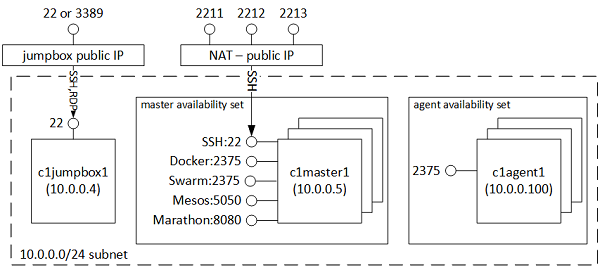
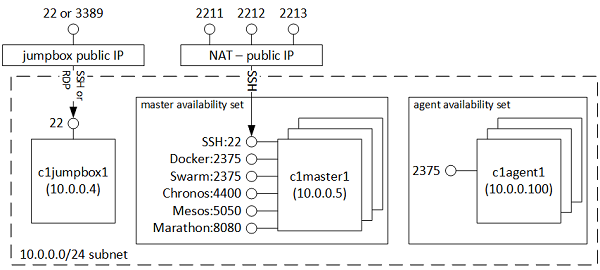
Added Chronos walkthrough to README.md

Changed region(s): [[0.24, 0.563, 0.63, 0.8593], [0.09, 0.2667, 0.15, 0.4148], [0.63, 0.7407, 0.66, 0.7704]]

diff --git a/README.md b/README.md
@@ -12,13 +12,13 @@ Once your cluster has been created you will have a resource group containing 3 p
 
 2. a set of agents behind in an agent specific availability set.  The agent VMs must be accessed through the master, or jumpbox
 
-3. if chosen, a jumpbox
+3. if chosen, a windows or linux jumpbox
 
 The following image is an example of a cluster with 1 jumpbox, 3 masters, and 3 agents:
 
 ![Image of mesos cluster on azure](https://raw.githubusercontent.com/anhowe/mesos-scalable-cluster/master/images/mesos.png)
 
-You can see Mesos on port 5050, Marathon on port 8080, and Swarm on port 2375.  All VMs are on the same private subnet, 10.0.0.0/24, and fully accessible to each other.
+You can see Mesos on port 5050, Marathon on port 8080, Chronos on port 4400, and Swarm on port 2375.  All VMs are on the same private subnet, 10.0.0.0/24, and fully accessible to each other.
 
 # Installation Notes
 
@@ -26,12 +26,12 @@ Here are notes for troubleshooting:
  * the installation log for the linux jumpbox, masters, and agents are in /var/log/azure/firstinstall.log
  * event though the VMs finish quickly mesos can take 5-15 minutes to install, check /var/log/azure/firstinstall.log for the completion status.
  * the linux jumpbox is based on https://github.com/anhowe/ubuntu-devbox and will take 1 hour to configure.  Visit https://github.com/anhowe/ubuntu-devbox to learn how to know when setup is completed, and then how to access the desktop via VNC and an SSH tunnel.
- * the explorer browser in windows needs to be setup in compatibility mode, otherwise the mesos UI will not display.  After starting the browser go to settings, compatibility mode and ensure "Display intranet sites in compability mode" is unchecked
+ * if using a Windows jumpbox the explorer browser in windows needs to be setup in compatibility mode, otherwise the mesos UI will not display.  After starting the browser go to settings, compatibility mode and ensure "Display intranet sites in compability mode" is unchecked
  ![Image of mesos cluster on azure](https://raw.githubusercontent.com/anhowe/mesos-scalable-cluster/master/images/windows-compatibility.png)
 
 # Cluster Walkthrough
 
-This walk through is based the wonderful digital ocean tutorial: https://www.digitalocean.com/community/tutorials/how-to-configure-a-production-ready-mesosphere-cluster-on-ubuntu-14-04
+Before running the walkthrough ensure you have chosen "true" for "marathonEnabled" parameter.  This walk through is based the wonderful digital ocean tutorial: https://www.digitalocean.com/community/tutorials/how-to-configure-a-production-ready-mesosphere-cluster-on-ubuntu-14-04
 
 1. Get your endpoints to cluster
  1. browse to https://portal.azure.com
@@ -85,7 +85,29 @@ This walk through is based the wonderful digital ocean tutorial: https://www.dig
 
  ![Image of mesos cluster on azure](https://raw.githubusercontent.com/anhowe/mesos-scalable-cluster/master/images/mesos-completed-tasks.png)
 
+# Marathon Walkthrough
+
+Before running this walkthrough ensure you have created a cluster choosing "true" for the "marathonEnabled" parameter.
+
+1. from the jumpbox browse to http://c1master1:4400/, and verify you see the marathon Web UI:
+
+![Image of mesos cluster on azure](https://raw.githubusercontent.com/anhowe/mesos-scalable-cluster/master/images/chronos-ui.png)
+
+2. Click Add and fill in the following details:
+ 1. Name - "MyFirstApp"
+ 2. Command - "echo "my first app on chronos""
+ 3. Owner, and Owner Name - you can put random information Here
+ 4. Schedule - Set to P"T1M" in order to run this every minute
+
+![Image of mesos cluster on azure](https://raw.githubusercontent.com/anhowe/mesos-scalable-cluster/master/images/chronos-ui.png)
+
+3. Click Create
+
+4. Watch the task run, and then browse back to the Mesos UI http://c1master1:5050 and observe the output in the completed task.
+
 # Swarm Walkthrough
+
+Before running this walkthrough ensure you have created a cluster choosing "true" for the "swarmEnabled" parameter.
 
 1. from the jumpbox browse to http://c1master1:5050/#/frameworks, and verify swarm is working:
 
